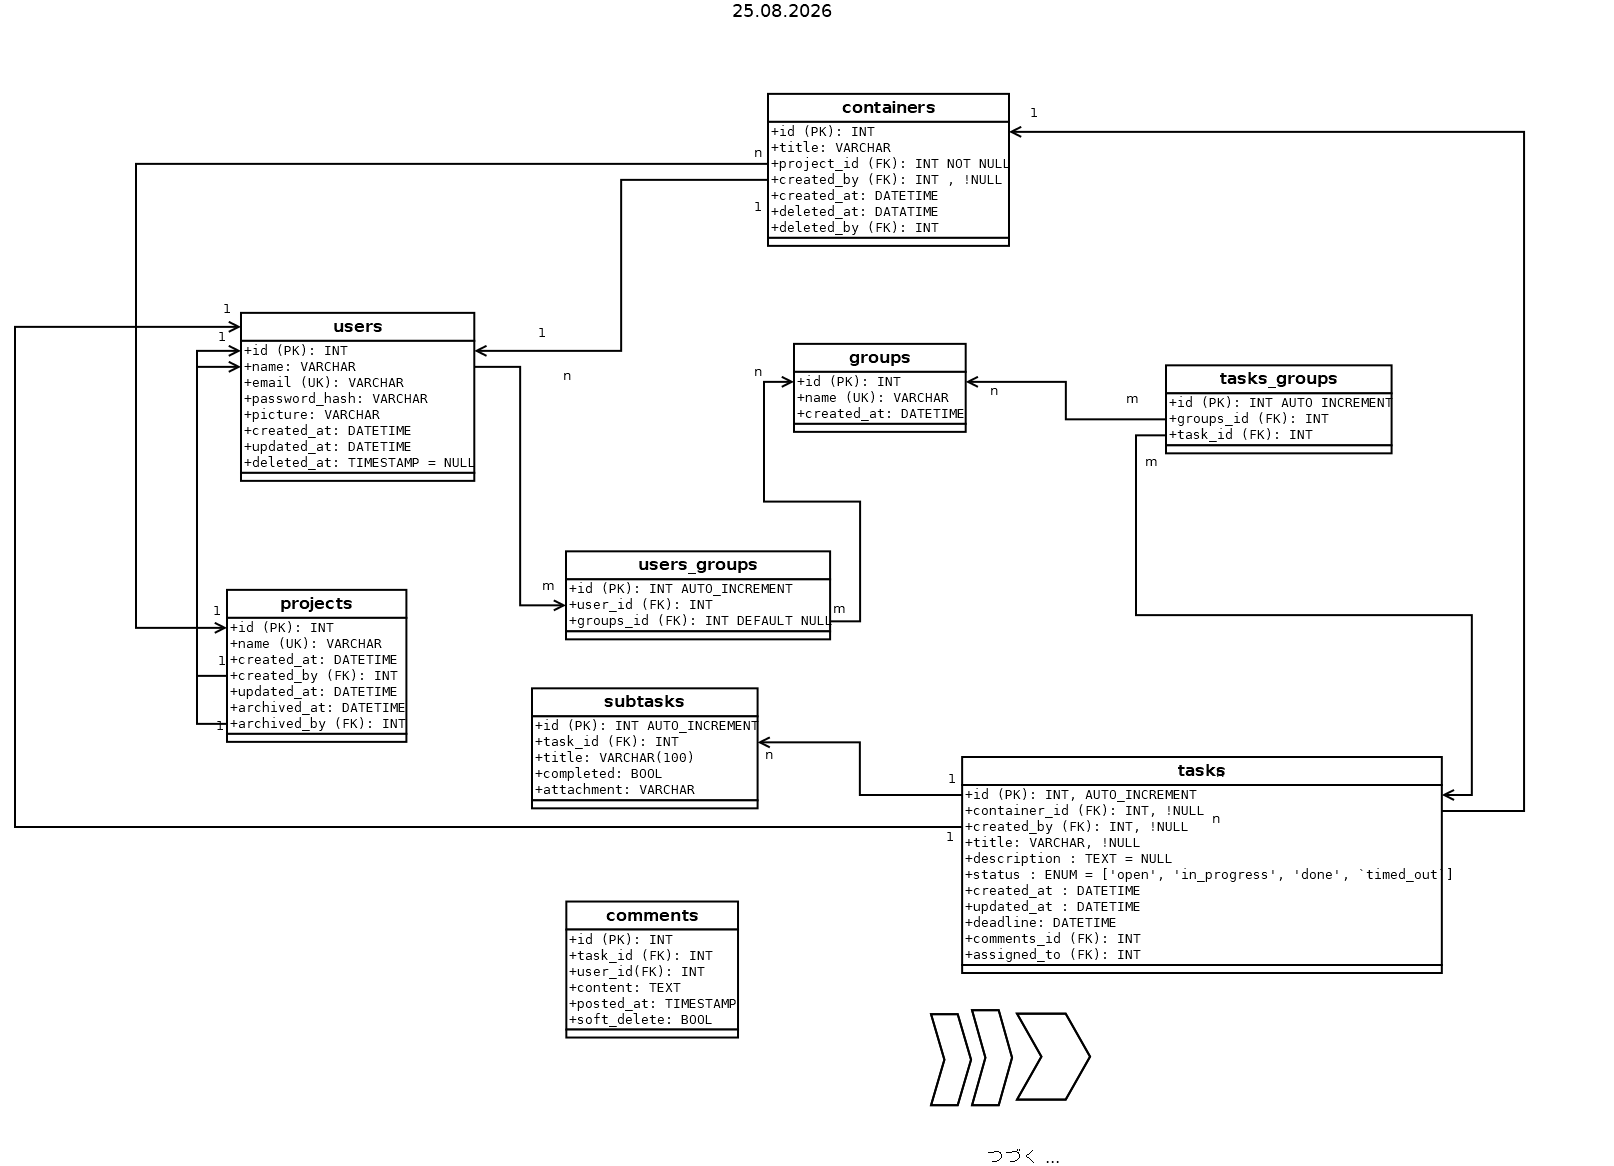
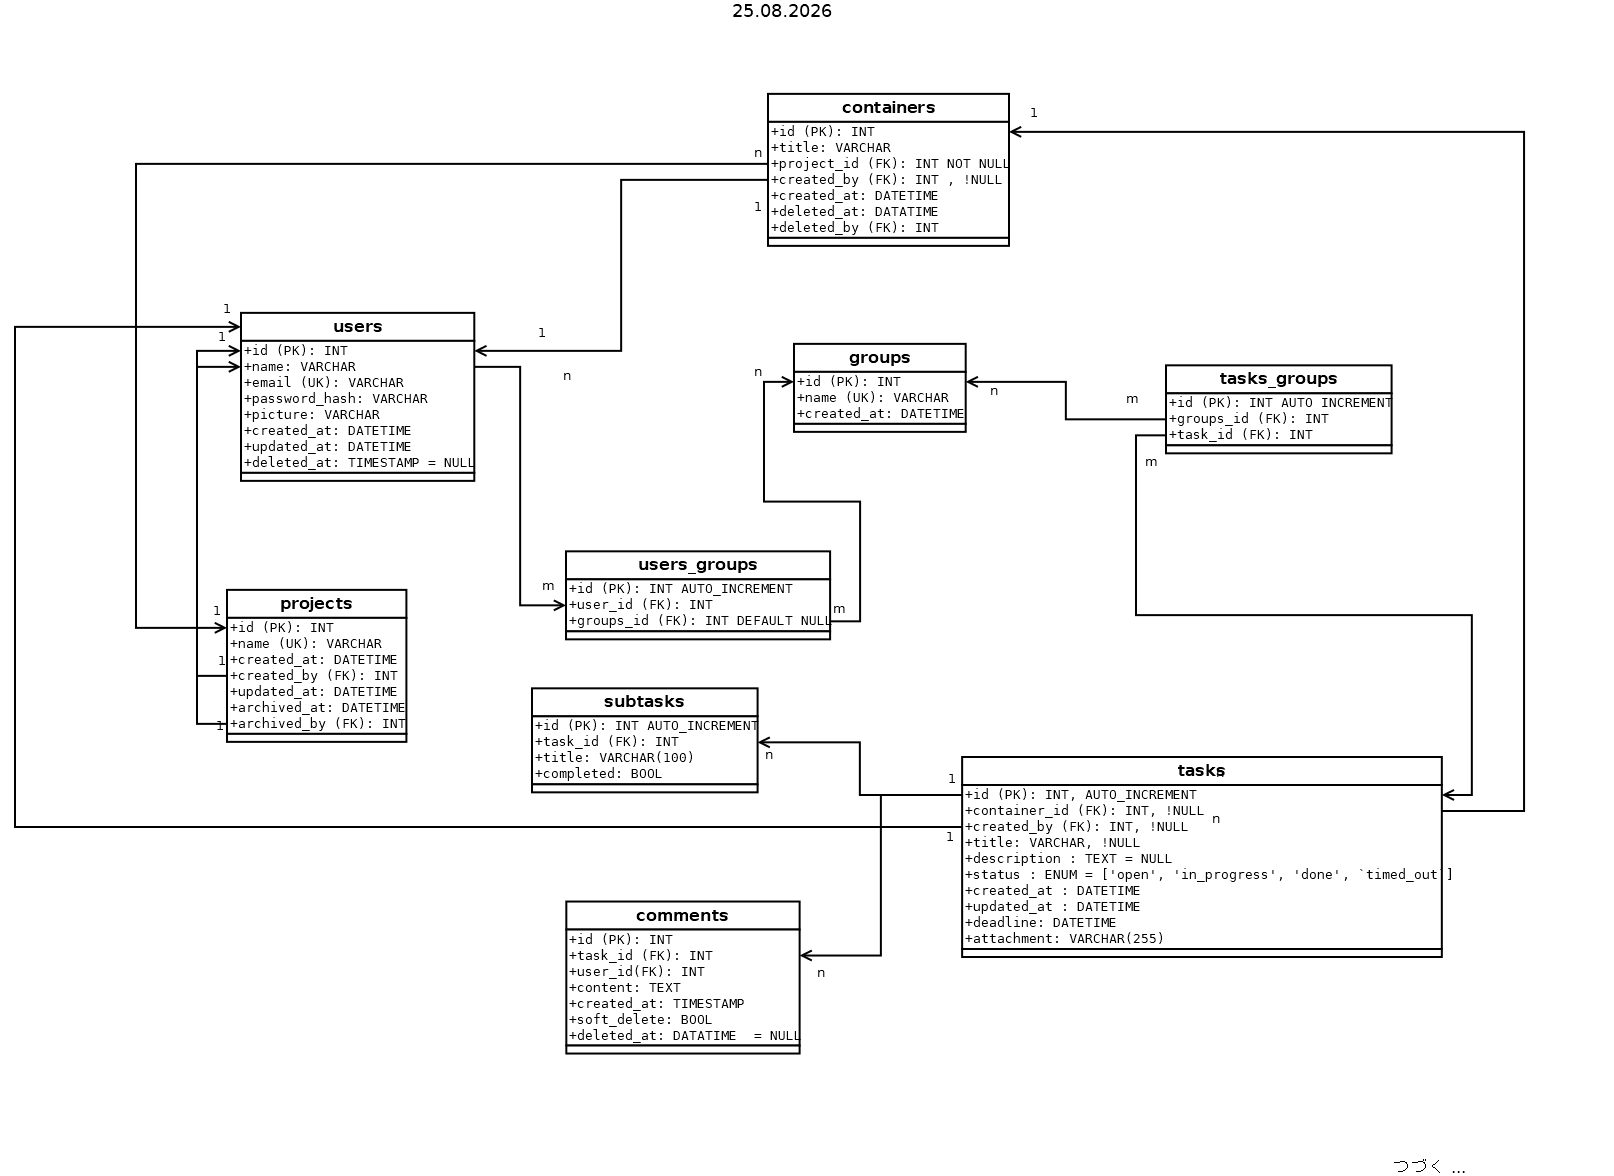
Update README.md with project hierarchy and add updated data model diagrams

diff --git a/README.md b/README.md
@@ -3,6 +3,19 @@
 Eine plattformübergreifende Projekt-Management-Anwendung für das Verwatung von Aufgaben in Übergeordente Contienern.
 Benutzerverwaltung und authenirern und für Team mit gruppierung von Benutzen.
 
+Programm Hierarchie:
+
+User
+ │
+ ├── Groups
+ │
+ └── Projects
+       │
+       └── Containers
+             │
+             └── Tasks
+                   │
+                   └── Subtasks
 ### Backend
 - PHP
 - REST API
